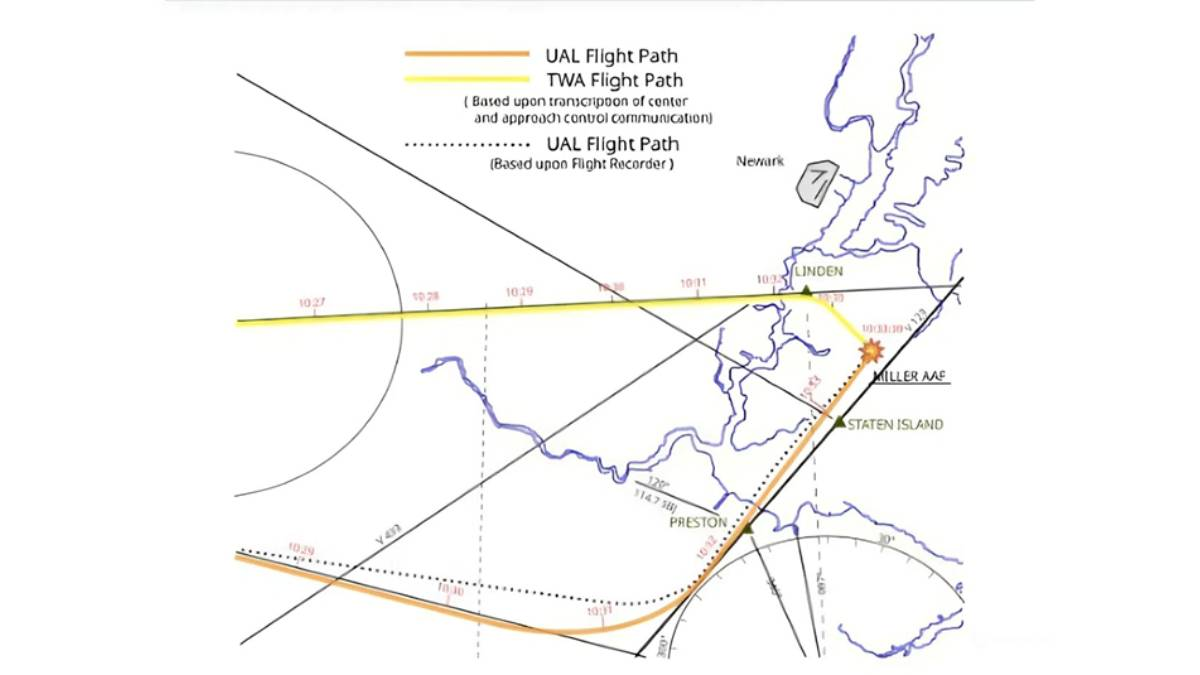
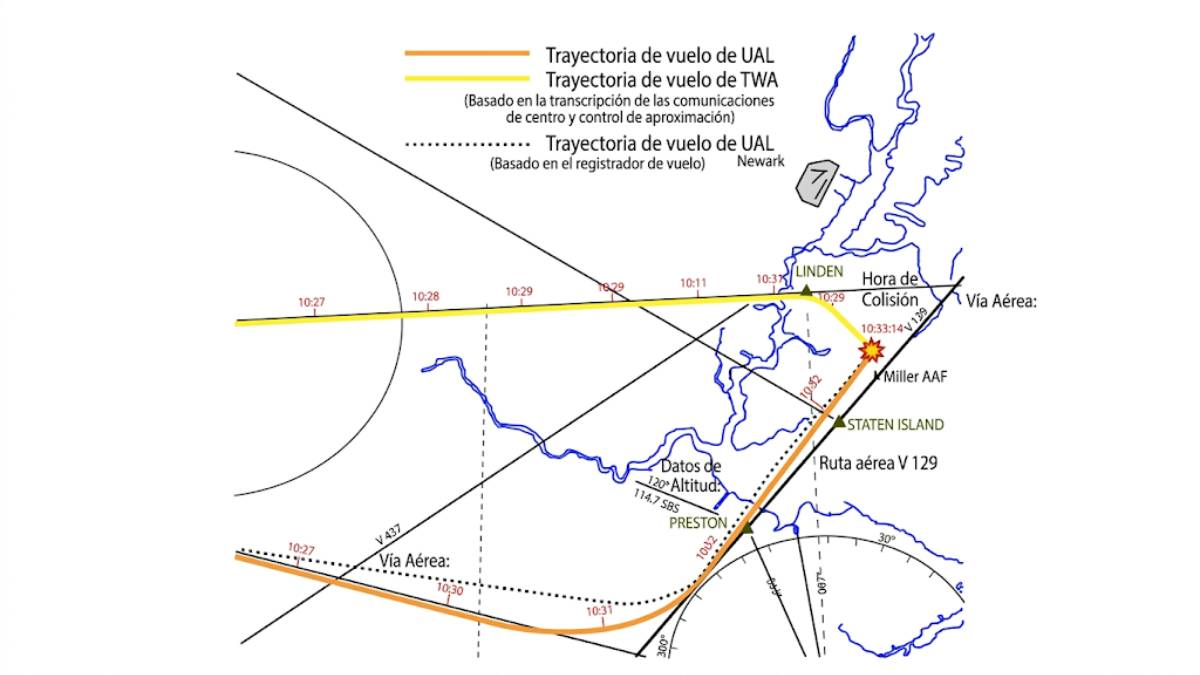
Actualizar efeméride "1960-12-16-colision-twa266-united826.md"
Adecuarla al nuevo formato.

diff --git a/_posts/1960-12-16-colision-twa266-united826.md b/_posts/1960-12-16-colision-twa266-united826.md
@@ -2,7 +2,7 @@
 layout: post
 title: "Efemérides de Aviación | 16 de diciembre de 1960 | Colisión aérea entre TWA 266 y United Airlines 826"
 date: 1960-12-16
-categories: [accidentes-aéreos]
+categories: [aviacion-accidente]
 author: Enrique Pomares
 pais: Estados Unidos
 operator: Trans World Airlines / United Airlines
@@ -12,7 +12,7 @@ image: 1960-12-16-colision-twa266-united826.jpg
 
 <figure>
   <img class="post-image" src="{{ site.baseurl }}/assets/img/1960-12-16-colision-twa266-united826.jpg" alt="Rutas de vuelo de TWA 266 y United 826 antes de la colisión">
-  <figcaption class="post-caption">Rutas de vuelo de las dos aeronaves involucradas en la colisión, el 16 de diciembre de 1960. En naranja la ruta del Vuelo 826 de United Airlines, y en amarillo la ruta del Vuelo 266 de TWA. (Fuente: Informe CAB/NTSB).</figcaption>
+  <figcaption class="post-caption">Rutas de vuelo de las dos aeronaves involucradas en la colisión, el 16 de diciembre de 1960. En naranja la ruta del Vuelo 826 de United Airlines, y en amarillo la ruta del Vuelo 266 de TWA. (Fuente: Informe CAB/NTSB). Traducida al español por quien publica.</figcaption>
 </figure>
 <hr style="margin: 2rem 0; border: none; height: 2px; background: linear-gradient(to right, #283593, #1a237e);" />
 
